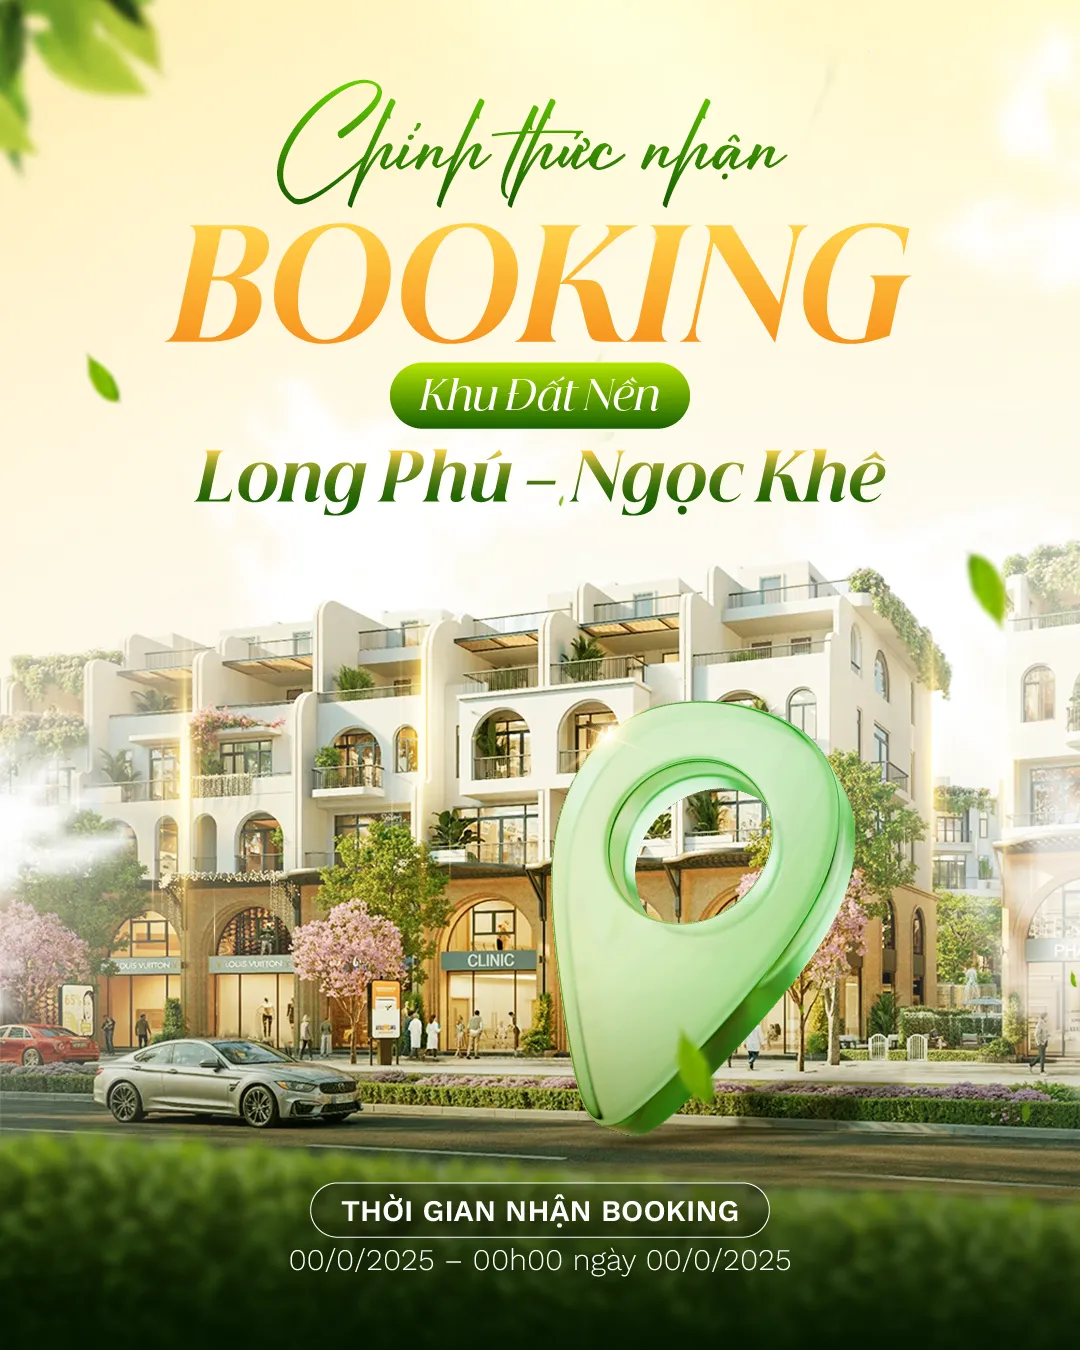
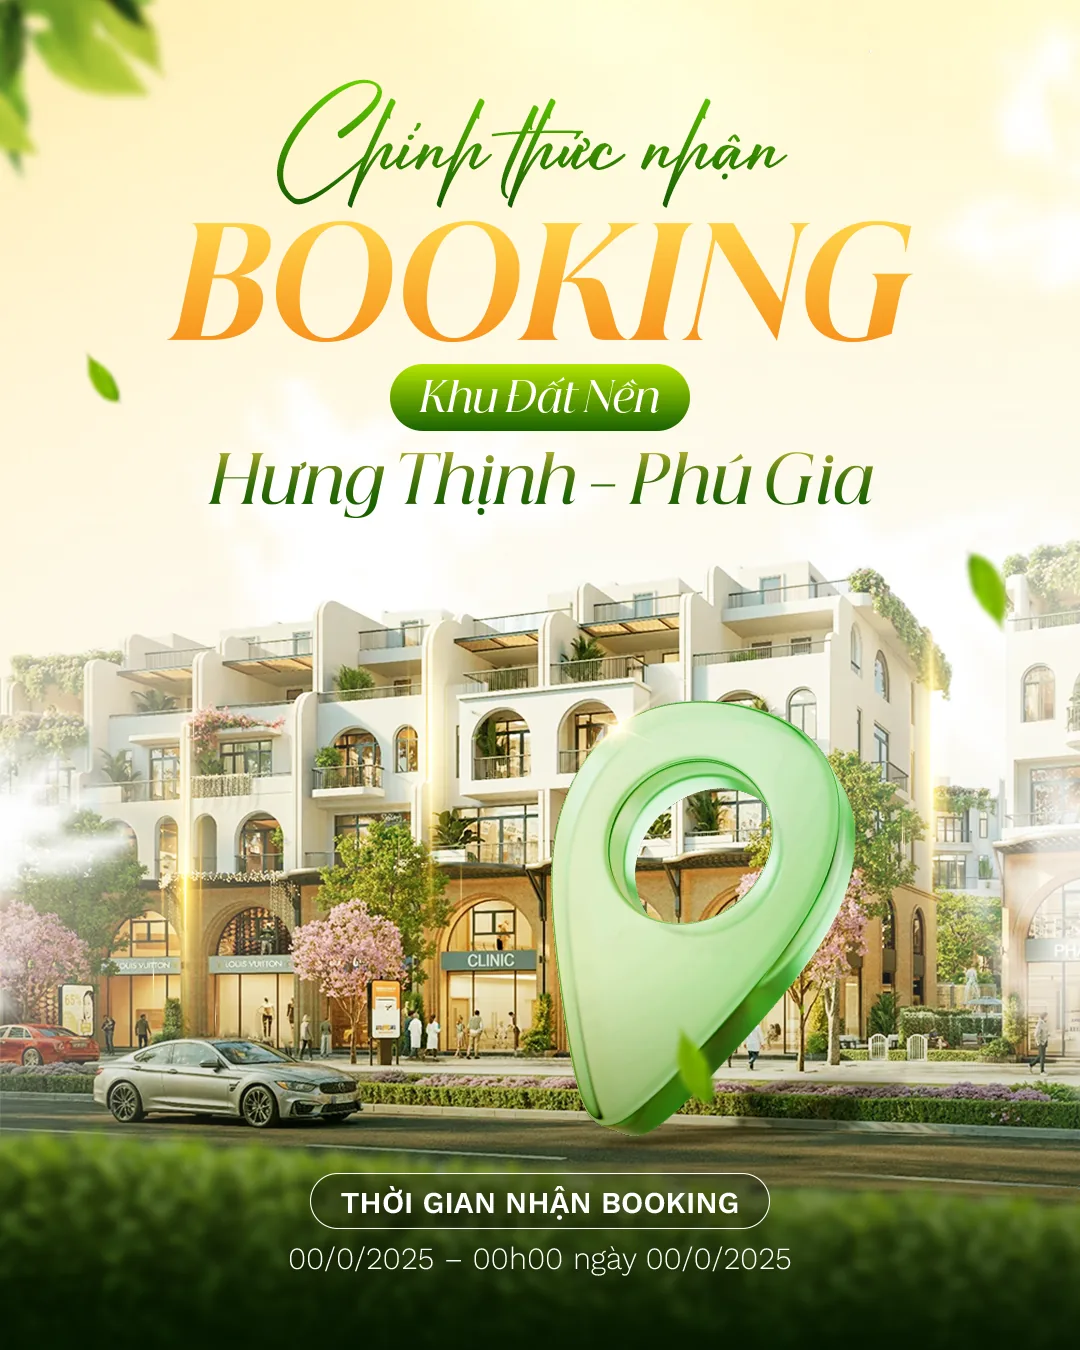
Cập nhật ảnh mới và đưa lại 2 bài social Real Estate (post 20, 24)
Convert PNG sang WebP (quality 82) và chèn lại vào gallery đúng vị trí cũ.

diff --git a/creative-portfolio.html b/creative-portfolio.html
@@ -1132,9 +1132,23 @@
   </a>
 
   <a class="work" href="#" data-cat="social"
+     data-desc="A real estate post styled to feel premium and dependable, with structured layouts and confident typography. Property highlights and offers sit in a clear, professional frame.">
+    <img class="work-media" src="works/social/post-20-bds/post20-final.webp" alt="Social — Real Estate" loading="lazy" style="--ar: 1080/1350">
+    <div class="work-overlay"><span class="w-cat">Social</span><span class="w-name">Real Estate</span></div>
+    <span class="work-arrow"><svg viewBox="0 0 24 24" fill="none" stroke="currentColor" stroke-width="2.4" stroke-linecap="round" stroke-linejoin="round"><path d="M7 17L17 7M9 7h8v8"/></svg></span>
+  </a>
+
+  <a class="work" href="#" data-cat="social"
      data-images="works/social/post-23-bds/post23-1.webp|works/social/post-23-bds/post23-2.webp|works/social/post-23-bds/post23-3.webp|works/social/post-23-bds/post23-4.webp"
      data-desc="A property promotion that balances an aspirational visual with organized, easy-to-read details. The design conveys trust while keeping key information front and center.">
     <img class="work-media" src="works/social/post-23-bds/post23-1.webp" alt="Social — Real Estate" loading="lazy" style="--ar: 1080/1350">
+    <div class="work-overlay"><span class="w-cat">Social</span><span class="w-name">Real Estate</span></div>
+    <span class="work-arrow"><svg viewBox="0 0 24 24" fill="none" stroke="currentColor" stroke-width="2.4" stroke-linecap="round" stroke-linejoin="round"><path d="M7 17L17 7M9 7h8v8"/></svg></span>
+  </a>
+
+  <a class="work" href="#" data-cat="social"
+     data-desc="A real estate visual built around a clean, upscale look, where imagery and text share a calm, ordered composition. The result feels credible, modern, and inviting.">
+    <img class="work-media" src="works/social/post-24-bds/post24-final.webp" alt="Social — Real Estate" loading="lazy" style="--ar: 1080/1350">
     <div class="work-overlay"><span class="w-cat">Social</span><span class="w-name">Real Estate</span></div>
     <span class="work-arrow"><svg viewBox="0 0 24 24" fill="none" stroke="currentColor" stroke-width="2.4" stroke-linecap="round" stroke-linejoin="round"><path d="M7 17L17 7M9 7h8v8"/></svg></span>
   </a>